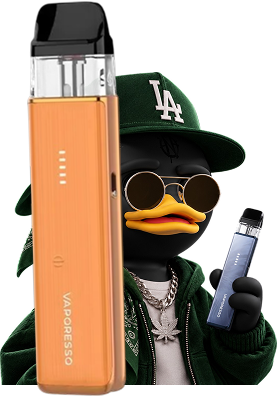
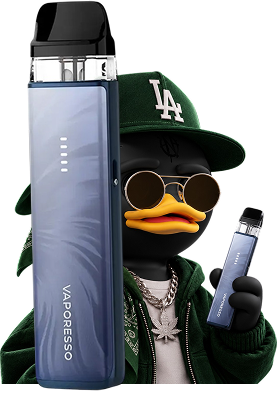
Replace Xros 6 and OXVA liquid catalog images (design v3).
Use Group 2156/2157/2155 assets, cache-bust ?v=3, nginx no-cache for /products, visual cache v5.

diff --git a/elf.duck.clean/src/lib/productImages.js b/elf.duck.clean/src/lib/productImages.js
@@ -1,28 +1,38 @@
+/** Версія файлів у /public/products — збільшуй після заміни PNG (обхід кешу Telegram). */
+export const PRODUCT_CARD_ASSET_VERSION = "3";
+
+function cardAsset(file) {
+  return `/products/${file}?v=${PRODUCT_CARD_ASSET_VERSION}`;
+}
+
 /** Локальні превʼю (дизайн) + назви для окремих productKey. */
 export const productVisualByKey = {
   "xros-6-mini-pod": {
-    cardBgUrl: "/products/xros-6-mini-pod-card.png",
+    cardBgUrl: cardAsset("xros-6-mini-pod-card.png"),
     cardDuckUrl: "",
-    orderImgUrl: "/products/xros-6-mini-pod-card.png",
+    orderImgUrl: cardAsset("xros-6-mini-pod-card.png"),
     classCardBg: "cardImageProductHero",
+    classCardDuck: "",
     title1: "XROS 6 MINI POD",
     title2: "",
     titleModal: "XROS 6 MINI POD",
   },
   "xros-6-pod": {
-    cardBgUrl: "/products/xros-6-pod-card.png",
+    cardBgUrl: cardAsset("xros-6-pod-card.png"),
     cardDuckUrl: "",
-    orderImgUrl: "/products/xros-6-pod-card.png",
+    orderImgUrl: cardAsset("xros-6-pod-card.png"),
     classCardBg: "cardImageProductHero",
+    classCardDuck: "",
     title1: "XROS 6 POD",
     title2: "",
     titleModal: "XROS 6 POD",
   },
   "oxva-30-ml-20-mg": {
-    cardBgUrl: "/products/oxva-30-ml-20-mg-card.png",
+    cardBgUrl: cardAsset("oxva-30-ml-20-mg-card.png"),
     cardDuckUrl: "",
-    orderImgUrl: "/products/oxva-30-ml-20-mg-card.png",
+    orderImgUrl: cardAsset("oxva-30-ml-20-mg-card.png"),
     classCardBg: "cardImageProductHero",
+    classCardDuck: "",
     title1: "OXVA",
     title2: "30 ML / 20 MG",
     titleModal: "OXVA 30 ML / 20 MG",
@@ -36,7 +46,9 @@ function applyPreset(product, preset) {
   if (preset.cardDuckUrl !== undefined) next.cardDuckUrl = preset.cardDuckUrl;
   if (preset.orderImgUrl) next.orderImgUrl = preset.orderImgUrl;
   if (preset.classCardBg) next.classCardBg = preset.classCardBg;
-  if (preset.classCardDuck) next.classCardDuck = preset.classCardDuck;
+  if (preset.classCardDuck !== undefined) {
+    next.classCardDuck = preset.classCardDuck;
+  }
   if (preset.title1) next.title1 = preset.title1;
   if (preset.title2 !== undefined) next.title2 = preset.title2;
   if (preset.titleModal) next.titleModal = preset.titleModal;

diff --git a/elfduck.crm/src/lib/productImages.js b/elfduck.crm/src/lib/productImages.js
@@ -26,9 +26,9 @@ export const productImageByKey = {
   'ethereum-30-ml': '/products/ethereum-30-ml.webp',
   'puffy-30-ml-70-mg': '/products/puffy-30-ml-70-mg.webp',
   'xros-5-pod': '/products/xros-5-pod.webp',
-  'xros-6-mini-pod': '/products/xros-6-mini-pod-card.png',
-  'xros-6-pod': '/products/xros-6-pod-card.png',
-  'oxva-30-ml-20-mg': '/products/oxva-30-ml-20-mg-card.png',
+  'xros-6-mini-pod': '/products/xros-6-mini-pod-card.png?v=3',
+  'xros-6-pod': '/products/xros-6-pod-card.png?v=3',
+  'oxva-30-ml-20-mg': '/products/oxva-30-ml-20-mg-card.png?v=3',
   'yami-30ml': '/products/yami-30ml.webp',
   'elfx-pod': '/products/elfx-pod.webp',
 };

diff --git a/elf.duck.clean/src/utils/visualCache.js b/elf.duck.clean/src/utils/visualCache.js
@@ -1,6 +1,6 @@
 import { enrichProductVisuals } from "../lib/productImages.js";
 
-const STORAGE_KEY = "product_visual_cache_v4";
+const STORAGE_KEY = "product_visual_cache_v5";
 
 const pickVisualFields = (product) => {
   if (!product || typeof product !== "object") return null;
